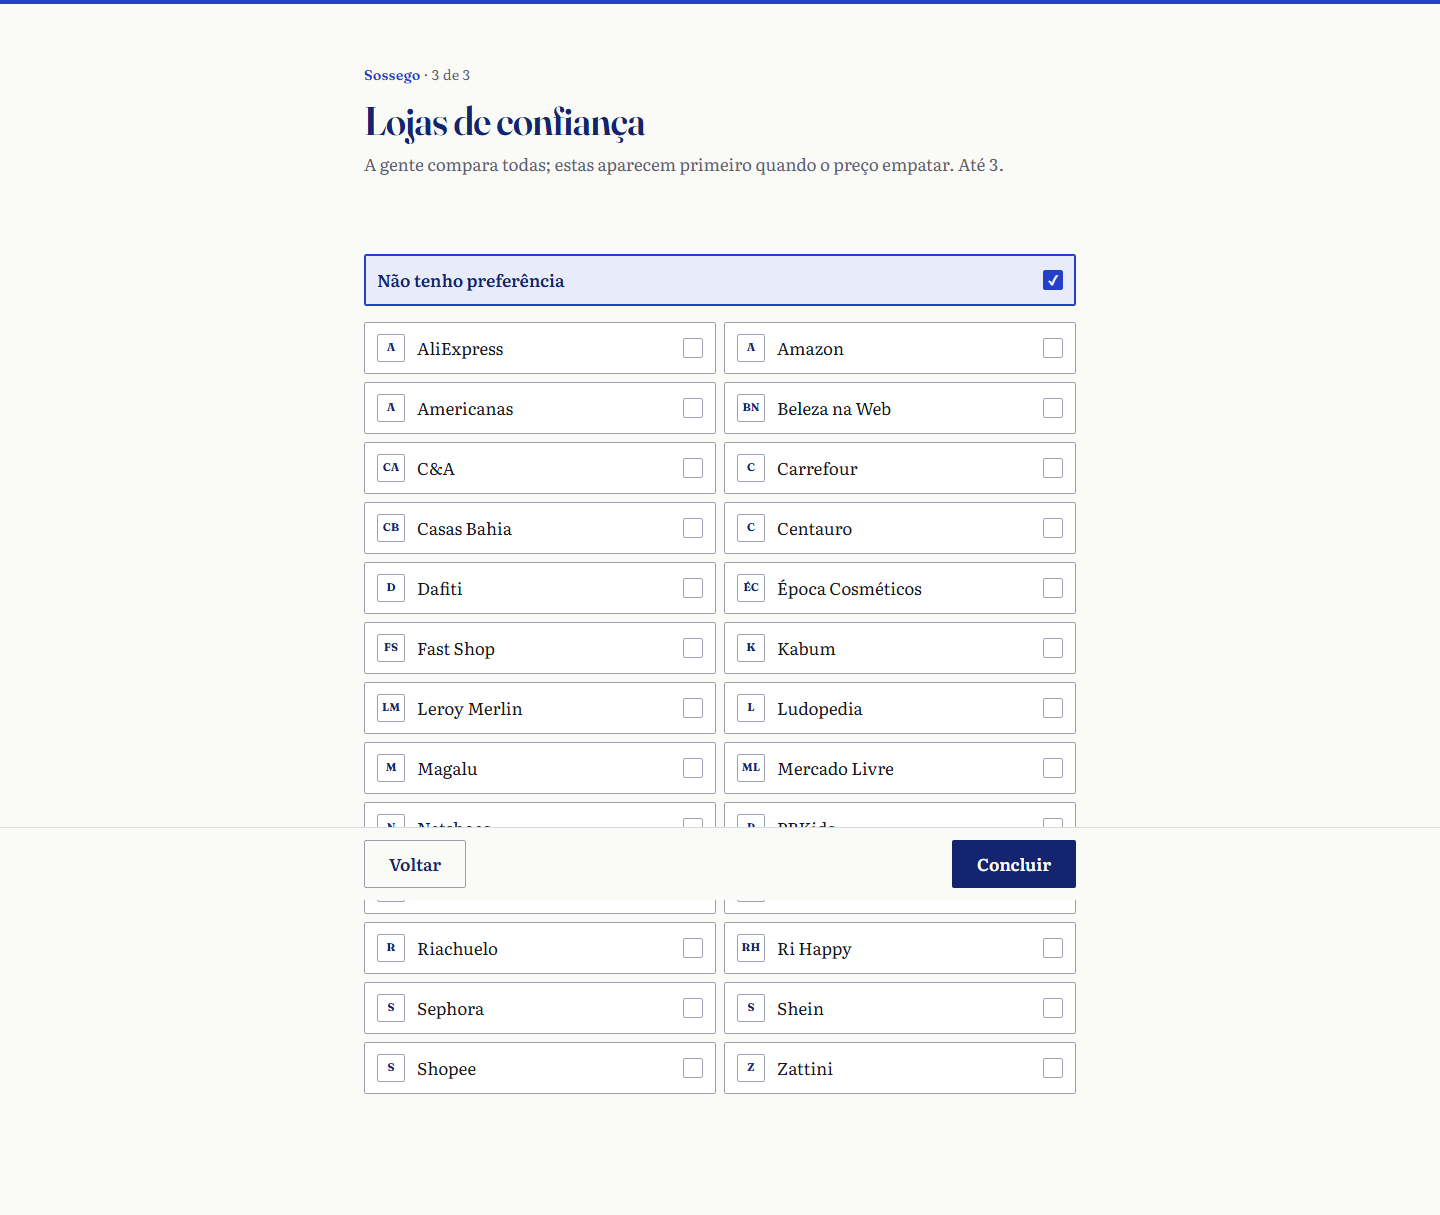
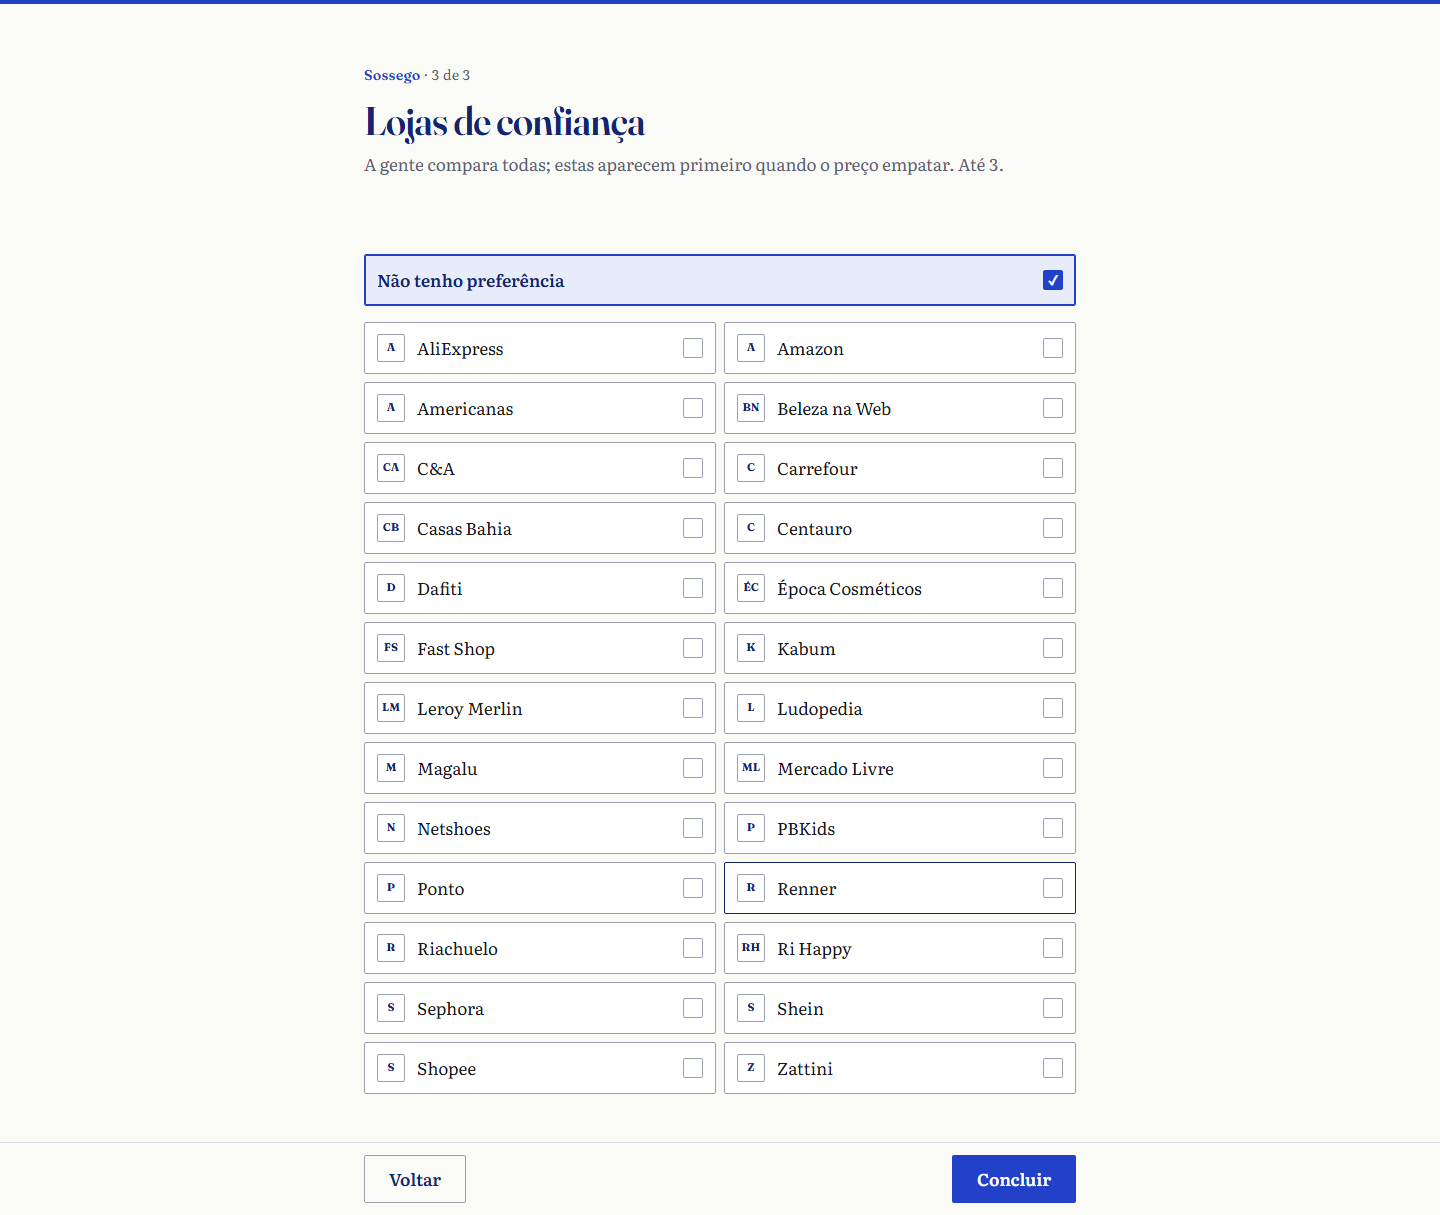
docs: registro da Fase 6, prints sem elemento fixo torto e texto do PR

diff --git a/frontend/e2e/prints.spec.ts b/frontend/e2e/prints.spec.ts
@@ -14,8 +14,15 @@ for (const tela of TELAS) {
     // Sem transição: o print não pega botão no meio da animação.
     test.use({ viewport: tela.viewport, deviceScaleFactor: tela.deviceScaleFactor, reducedMotion: "reduce" });
 
-    const foto = (page: Page, n: string) =>
-      page.screenshot({ path: `../docs/prints/fase-06/${tela.nome}-${n}.png`, fullPage: true });
+    // Página inteira com elemento fixo sai torta (barra no meio, rodapé por cima do
+    // conteúdo). Só no print, barra e rodapé entram no fluxo da página; na tela não muda.
+    const foto = async (page: Page, n: string) => {
+      const estilo = await page.addStyleTag({
+        content: ".progresso{position:absolute}.onb__rodape{position:static}",
+      });
+      await page.screenshot({ path: `../docs/prints/fase-06/${tela.nome}-${n}.png`, fullPage: true });
+      await estilo.evaluate((e) => (e as Element).remove());
+    };
 
     test("fluxo", async ({ page }) => {
       await page.goto("/onboarding");

diff --git a/docs/prs/fase-06.md b/docs/prs/fase-06.md
@@ -1,0 +1,36 @@
+# PR — `fase/06-design-system-onboarding` → `fase/05-pagamento`
+
+Base empilhada; depois do merge da 05, a base vira a `main`. No merge, tag `v0.6.0`.
+
+**Título:** Fase 6: design system e onboarding em 3 passos
+
+## O que foi feito
+- `frontend/` (Vite + React + TypeScript), proxy `/api` para a API local.
+- Design system: tokens do prompt (azul royal, papel, tinta, queda/alta),
+  Fraunces nos destaques e Literata no corpo com algarismos tabulares, fontes
+  self-hosted. Cantos de 2px; sem pílula, vidro, blur, gradiente ou sombra.
+- Componentes: Botao, Chip, BarraProgresso, Aviso, CampoTags, IconeCategoria
+  e IconeLoja (arquivo local em `public/lojas/`; monograma enquanto não há).
+- Onboarding: faixa etária (obrigatória) e gênero (opcional) com a linha da
+  LGPD; até 3 categorias e termos em tags; até 3 lojas ou "Não tenho
+  preferência". Na 4ª escolha, aviso "Máximo 3" e nada sai sozinho. Erro ao
+  salvar mantém as escolhas. "Refazer preferências" atualiza o mesmo perfil.
+- Os termos ficam no perfil e não disparam coleta (decisão do dono, 27/11).
+- `backend/db/recriar.py`: recria `*_test`/`*_e2e` do zero; o conftest usa.
+
+## Testado
+- 4 testes e2e com a API real (`sossego_e2e`): fluxo completo com os limites e
+  o perfil conferido no banco; refazer no mesmo perfil; falha ao salvar e nova
+  tentativa; navegação por teclado.
+- 208 testes do backend (inclui a trava do `recriar` contra o banco principal).
+- 20 prints em `docs/prints/fase-06/` (1440 e 390 px), conferidos um a um.
+
+## Não testado / limites
+- Ícones das lojas: monogramas. Baixar os favicons é requisição a loja e espera
+  o "pode" do dono.
+- Leitor de tela real (NVDA) não foi usado; só papéis ARIA conferidos no e2e.
+- Nos prints de página inteira, barra e rodapé fixos entram no fluxo só durante
+  a captura; na tela eles ficam fixos.
+- A tela depois do onboarding é provisória; a página inicial é a Fase 7.
+
+🤖 Generated with [Claude Code](https://claude.com/claude-code)

diff --git a/docs/produto-e-fases.md b/docs/produto-e-fases.md
@@ -69,6 +69,19 @@ Atualizado em 27/11/2026 (Black Friday).
   - `POST /api/v1/pagamento/simular`.
   - Bug do `ClienteEducado` achado no BCB: 304 sem cópia em cache virava
     resposta vazia. Teste de regressão escrito antes da correção.
+- **Fase 6 (27/11, aguardando aprovação dos prints)** — `fase/06-design-system-onboarding`
+  - `frontend/`: Vite + React + TypeScript. Tokens do prompt em `styles/tokens.css`;
+    Fraunces nos destaques e Literata no corpo, self-hosted (`@fontsource`).
+    Cantos de 2px, sem pílula/vidro/blur/gradiente; contraste AA, foco visível,
+    teclado e `prefers-reduced-motion`.
+  - Componentes: Botao, Chip, BarraProgresso, Aviso, CampoTags, IconeCategoria
+    (traço próprio), IconeLoja (arquivo local; monograma enquanto não há ícone).
+  - Onboarding em 3 passos com limite de 3 (aviso, sem tirar a mais antiga),
+    termos em tags, "Não tenho preferência", linha da LGPD, erro que mantém as
+    escolhas, "refazer preferências" no mesmo perfil. Termos não disparam coleta.
+  - e2e (Playwright) com a API real num banco só dele (`sossego_e2e`, recriado
+    por `db/recriar.py`, que recusa bancos que não terminem em `_test`/`_e2e`).
+  - Prints em `docs/prints/fase-06/` (1440 e 390 px).
 
 ### Ocorrências da Black Friday (27/11)
 
@@ -84,5 +97,6 @@ Atualizado em 27/11/2026 (Black Friday).
 
 ## Falta
 
-- Fases 6 a 10 (telas, mais lojas, polimento).
+- Fases 7 a 10 (telas, mais lojas, polimento).
+- Ícones das lojas: baixar uma vez, com o "pode" do dono (hoje são monogramas).
 - Ajustes pequenos e pendências de loja: `docs/backlog.md`.

diff --git a/AGENTS.md b/AGENTS.md
@@ -59,6 +59,8 @@ Windows sem make: `.\sossego.ps1 <alvo>` faz o mesmo que `make <alvo>`.
 | `.\sossego.ps1 matching [--refazer]` | anúncio → produto (ADR 002); o worker já roda no fim de cada rodada; `--refazer` quando a regra mudar |
 | `.\sossego.ps1 api` | API em http://127.0.0.1:8000 (OpenAPI em `/docs`); só lê/grava o banco, nunca chama loja |
 | `cd backend; uv run python -m pagamento.taxas [--dry-run]` | taxas do BCB agora (o worker já faz ~1x/dia) |
+| `cd frontend; npm run dev` | tela em http://127.0.0.1:5173 (precisa da API de pé) |
+| `cd frontend; npm run e2e` / `npm run prints` | Playwright: sobe API + Vite num banco `sossego_e2e` próprio; prints em `docs/prints/` |
 | `docker compose --profile ferramentas up -d adminer` | Adminer em http://127.0.0.1:8081 |
 | `.\sossego.ps1 atualizar-worker [ref]` | tag `worker-AAAAMMDD-HHMM` no ref (padrão: a branch atual), worktree nela, testes lá, reinicia |
 
@@ -91,5 +93,6 @@ Testes de banco usam `sossego_test`, recriado a cada sessão: o Postgres precisa
 - `backend/coleta/vigiar.py` — CLI/worker; `admin.py` — operação.
 - `backend/api/` — rotas (`app.py`) e contrato (`modelos.py`); SQL em `backend/sql/api.sql`.
 - `backend/pagamento/` — calculadora pura (`calculo.py`) e taxas do BCB (`taxas.py`).
+- `frontend/src/` — `styles/tokens.css` (design system), `components/`, `features/<tela>/`.
 - `backend/matching/` — normalizar → decidir → associar; `tests/fixtures/matching.csv` é o gabarito.
 - `dados/bruto/<loja>/<dia>/*.json.gz` — resposta crua (landing zone, fora do git).
